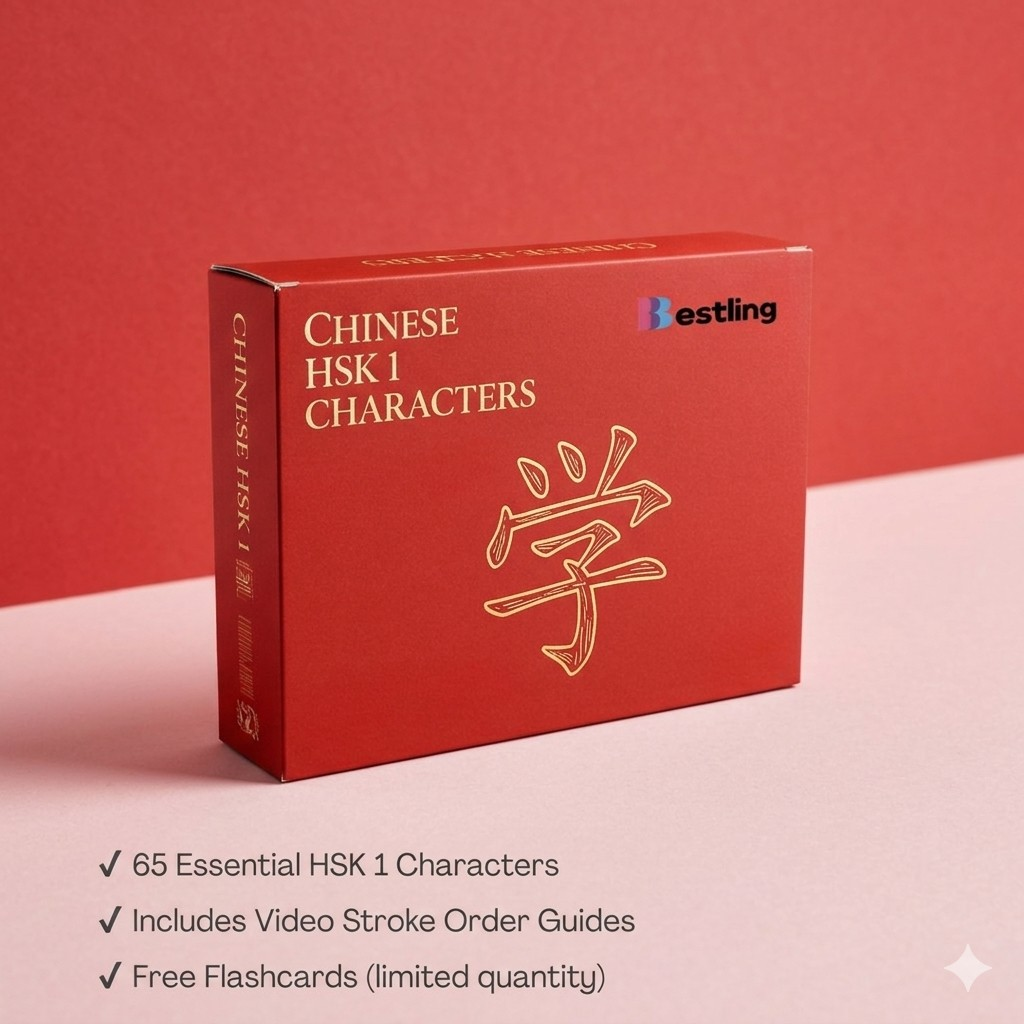
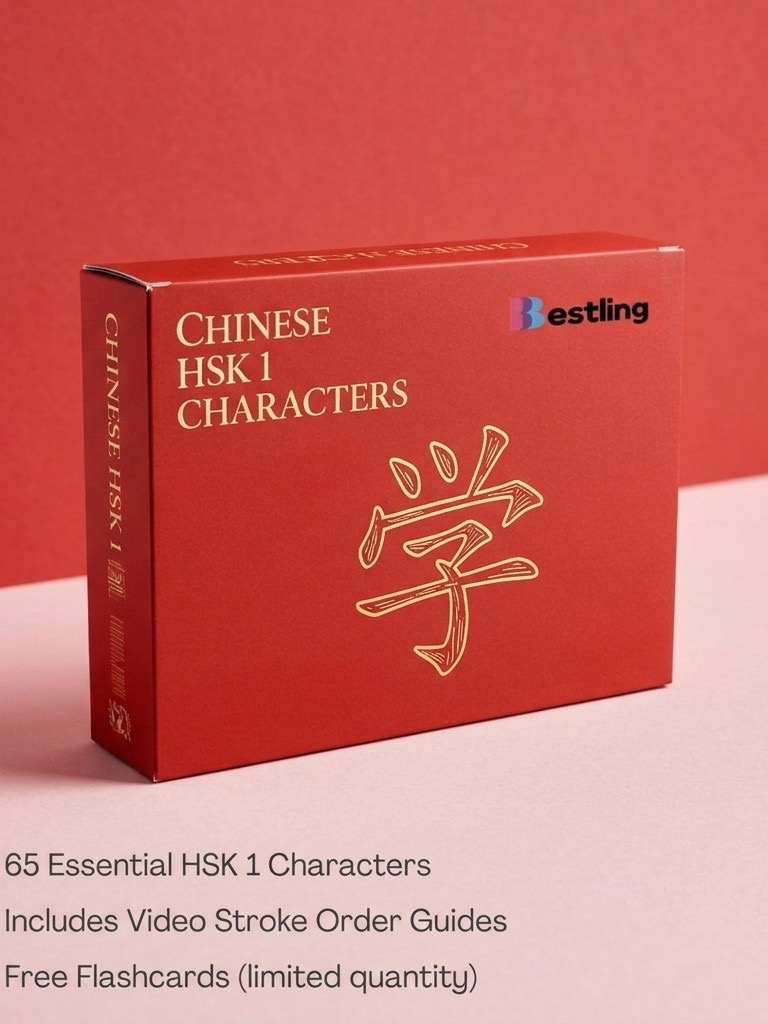
Library: match Chinese Characters 1 tile to catalog grid; crop cover 3:4
- First grid cell uses same aspect and styling as other decks
- Center-crop cover to 768×1024; remove built-in horizontal row and subtitle

Made-with: Cursor

diff --git a/src/components/DeckCatalogGrid.tsx b/src/components/DeckCatalogGrid.tsx
@@ -1,5 +1,5 @@
 import React from 'react'
-import type { DeckInfo } from '../lib/deckService'
+import { BUILTIN_CHINESE_CHARACTERS_1, type DeckInfo } from '../lib/deckService'
 import {
   DECK_CATALOG,
   catalogAccentClass,
@@ -13,8 +13,41 @@ type Props = {
 }
 
 export default function DeckCatalogGrid({ decks, onSelectOwnedDeck }: Props) {
+  const builtin = BUILTIN_CHINESE_CHARACTERS_1
+  const builtinBar = catalogBarGradient('emerald')
+
   return (
     <div className="mt-3 grid grid-cols-2 gap-3">
+      <button
+        type="button"
+        onClick={() => onSelectOwnedDeck(builtin)}
+        className={`overflow-hidden rounded-xl border text-left transition-transform active:scale-[0.98] ${catalogAccentClass('emerald', true)}`}
+      >
+        <div className="relative aspect-[3/4] w-full overflow-hidden">
+          {builtin.cover_image_url ? (
+            <>
+              <img
+                src={builtin.cover_image_url}
+                alt=""
+                className="absolute inset-0 h-full w-full object-cover"
+              />
+              <div className="absolute inset-0 bg-black/45" />
+            </>
+          ) : (
+            <div className={`absolute inset-0 bg-gradient-to-br ${builtinBar}`} />
+          )}
+          <div className="absolute inset-0 z-[1] flex flex-col items-center justify-center p-3 text-center">
+            <span className="text-xl font-bold leading-tight tracking-tight text-white drop-shadow">
+              {builtin.name}
+            </span>
+          </div>
+        </div>
+        <div className="px-3 py-2">
+          <div className="truncate text-xs font-semibold text-white">{builtin.name}</div>
+          <div className="truncate text-[10px] text-white/60">Tap for contents</div>
+        </div>
+      </button>
+
       {DECK_CATALOG.map((item) => {
         const matched = findOwnedDeck(item, decks)
         const owned = matched !== undefined

diff --git a/src/components/LibraryTab.tsx b/src/components/LibraryTab.tsx
@@ -1,11 +1,6 @@
 import { AnimatePresence } from 'framer-motion'
 import React, { useCallback, useEffect, useState } from 'react'
-import {
-  activateCode,
-  BUILTIN_CHINESE_CHARACTERS_1,
-  getActivatedDecks,
-  type DeckInfo,
-} from '../lib/deckService'
+import { activateCode, getActivatedDecks, type DeckInfo } from '../lib/deckService'
 import DeckCatalogGrid from './DeckCatalogGrid'
 import DeckContentsPanel from './DeckContentsPanel'
 
@@ -80,24 +75,6 @@ export default function LibraryTab() {
         <p className="mt-1.5 text-xs text-white/45 leading-relaxed">
           After purchase, your activation code is sent to the email address you provide at checkout.
         </p>
-
-        <button
-          type="button"
-          onClick={() => setOpenDeck(BUILTIN_CHINESE_CHARACTERS_1)}
-          className="mt-4 flex w-full overflow-hidden rounded-xl border border-white/15 bg-white/[0.06] text-left transition-transform active:scale-[0.99]"
-        >
-          <div className="relative h-28 w-24 shrink-0">
-            <img
-              src={BUILTIN_CHINESE_CHARACTERS_1.cover_image_url}
-              alt=""
-              className="absolute inset-0 h-full w-full object-cover"
-            />
-          </div>
-          <div className="flex min-w-0 flex-1 flex-col justify-center px-4 py-3">
-            <span className="text-lg font-bold text-white">{BUILTIN_CHINESE_CHARACTERS_1.name}</span>
-            <span className="mt-1 text-xs text-white/50">Built-in · tap to view all contents</span>
-          </div>
-        </button>
 
         <DeckCatalogGrid decks={decks} onSelectOwnedDeck={(d) => setOpenDeck(d)} />
       </div>
